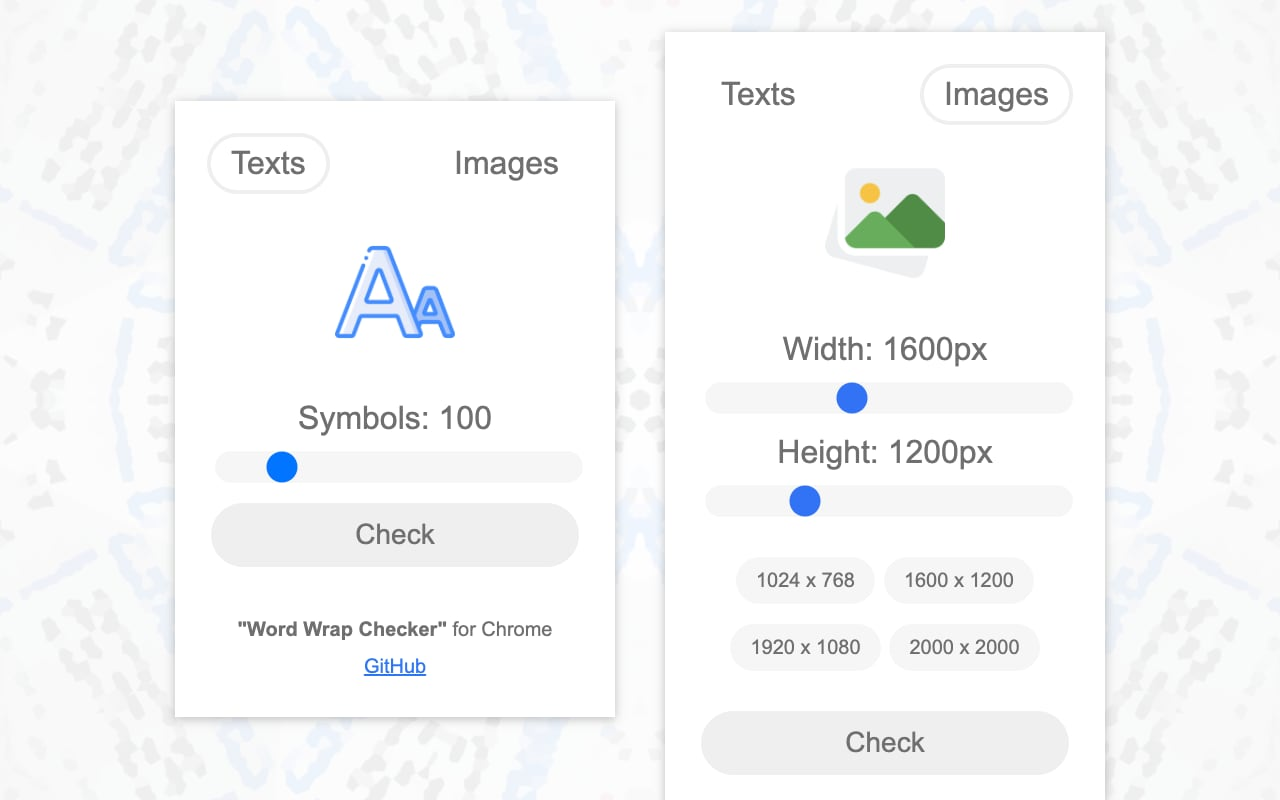
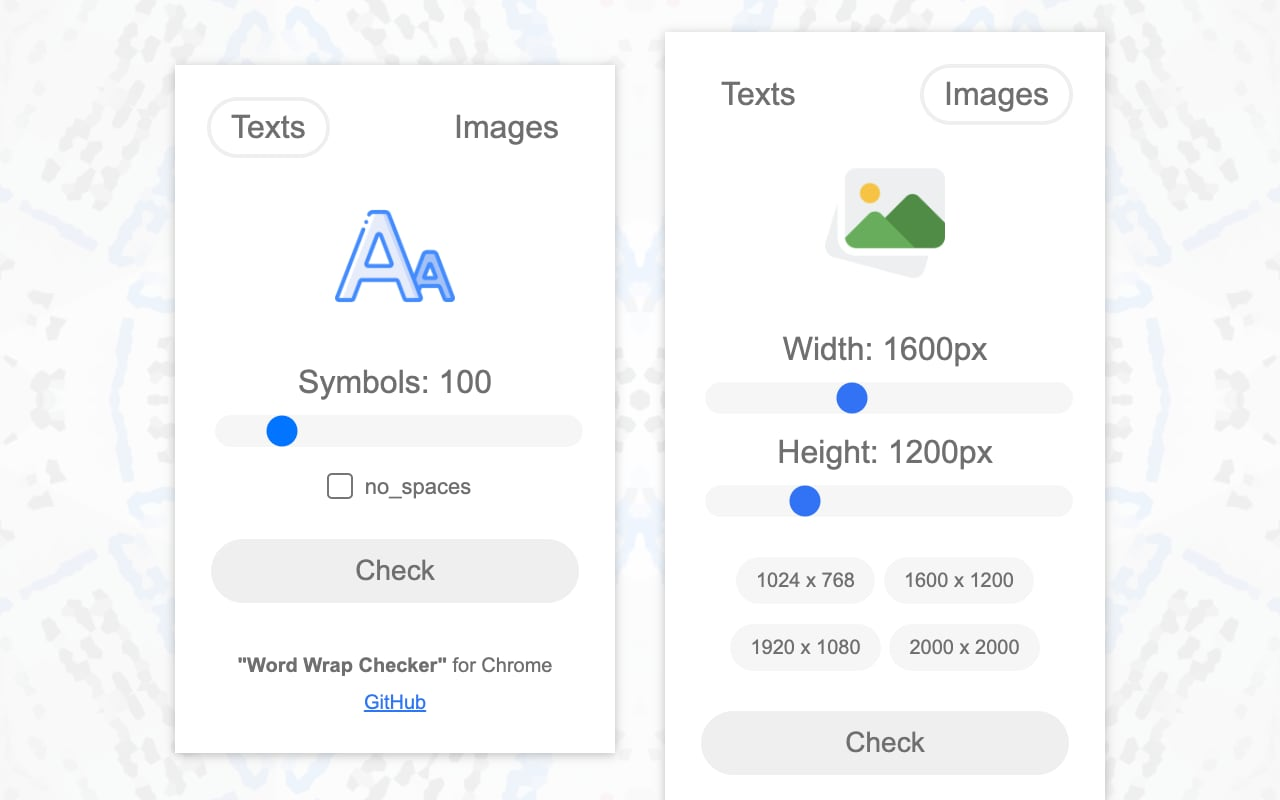
add no_spaces flag for text generation

diff --git a/chrome/js/main.js b/chrome/js/main.js
@@ -3,6 +3,7 @@ const DEFAULT_SETTINGS = {
   textLength: 100,
   imageWidth: 1024,
   imageHeight: 768,
+  noSpaces: false,
 };
 
 const BASE_TEXT =
@@ -26,6 +27,7 @@ const applySettings = (settings) => {
   const imagesHeight = getElement('images_height');
   const textLengthSlider = getElement('text_length_slider');
   const addTextLength = getElement('add_text_length');
+  const noSpacesCheckbox = getElement('no_spaces');
 
   if (settings.activeTabId === 'image_tab') {
     imageTab.checked = true;
@@ -45,6 +47,7 @@ const applySettings = (settings) => {
   imagesWidth.innerText = settings.imageWidth;
   imagesHeightSlider.value = settings.imageHeight;
   imagesHeight.innerText = settings.imageHeight;
+  noSpacesCheckbox.checked = settings.noSpaces;
 };
 
 const saveSettings = () => {
@@ -53,6 +56,7 @@ const saveSettings = () => {
     textLength: parseInt(getElement('text_length_slider').value, 10),
     imageWidth: parseInt(getElement('images_width_slider').value, 10),
     imageHeight: parseInt(getElement('images_height_slider').value, 10),
+    noSpaces: getElement('no_spaces').checked,
   };
 
   chrome.storage?.local?.set({ wordWrapCheckerSettings: currentSettings });
@@ -79,7 +83,7 @@ const setPlaceholderImages = (width, height) => {
   }
 };
 
-const replaceText = (text) => {
+const replaceText = (text, noSpacesFlag) => {
   const shuffleArray = (array) => {
     const shuffledArray = [...array];
 
@@ -106,7 +110,13 @@ const replaceText = (text) => {
     ) {
       const words = text.split(' ');
       const randomizedWords = shuffleArray(words);
-      node.textContent = randomizedWords.join(' ');
+      let result = randomizedWords.join(' ');
+
+      if (noSpacesFlag) {
+        result = result.replace(/\s+|-/g, '_');
+      }
+
+      node.textContent = result;
     }
   }
 
@@ -125,13 +135,13 @@ const processImagesOnPage = async (width, height) => {
   window.close();
 };
 
-const processTextOnPage = async (length) => {
+const processTextOnPage = async (length, noSpacesFlag) => {
   const text = BASE_TEXT
     .repeat(Math.ceil(length / BASE_TEXT.length))
     .substr(0, length);
 
   const [tab] = await chrome.tabs.query({ active: true, currentWindow: true });
-  runScript(tab.id, replaceText, [text]);
+  runScript(tab.id, replaceText, [text, noSpacesFlag]);
   window.close();
 };
 
@@ -162,6 +172,7 @@ document.addEventListener('DOMContentLoaded', function () {
   const imageTab = getElement('image_tab');
   const textSection = getElement('text_section');
   const imageSection = getElement('image_section');
+  const noSpacesCheckbox = getElement('no_spaces');
 
   loadSettings(applySettings);
 
@@ -173,7 +184,12 @@ document.addEventListener('DOMContentLoaded', function () {
 
   addTextButton.addEventListener('click', () => {
     const length = getElement('text_length_slider').value;
-    processTextOnPage(length);
+    const noSpacesFlag = getElement('no_spaces').checked;
+    processTextOnPage(length, noSpacesFlag);
+  });
+
+  noSpacesCheckbox.addEventListener('change', () => {
+    saveSettings();
   });
 
   imagesWidthSlider.addEventListener('input', () => {

diff --git a/chrome/popup.html b/chrome/popup.html
@@ -21,6 +21,7 @@
         <img class="content_image" src="img/text.png" width="60" alt="image icon">
         <label for="text_length_slider">Symbols: <span id="add_text_length">100</span></label>
         <input id="text_length_slider" class="slider" type="range" min="29" max="500" value="100"/>
+        <div class="no_spaces_wrapper"><input type="checkbox" id="no_spaces" name="no_spaces" /><label for="no_spaces">no_spaces</label></div>
         <button id="add_text" class="submit">Check</button>
     </section>
 

diff --git a/chrome/css/main.css b/chrome/css/main.css
@@ -35,3 +35,18 @@ label {
 .content_image {
   margin-bottom: 20px;
 }
+
+.no_spaces_wrapper {
+  display: flex;
+  justify-content: center;
+  align-items: center;
+  font-size: 11px;
+}
+
+.no_spaces_wrapper input {
+  margin-right: 6px;
+}
+
+.no_spaces_wrapper label {
+  margin-bottom: 6px;
+}
